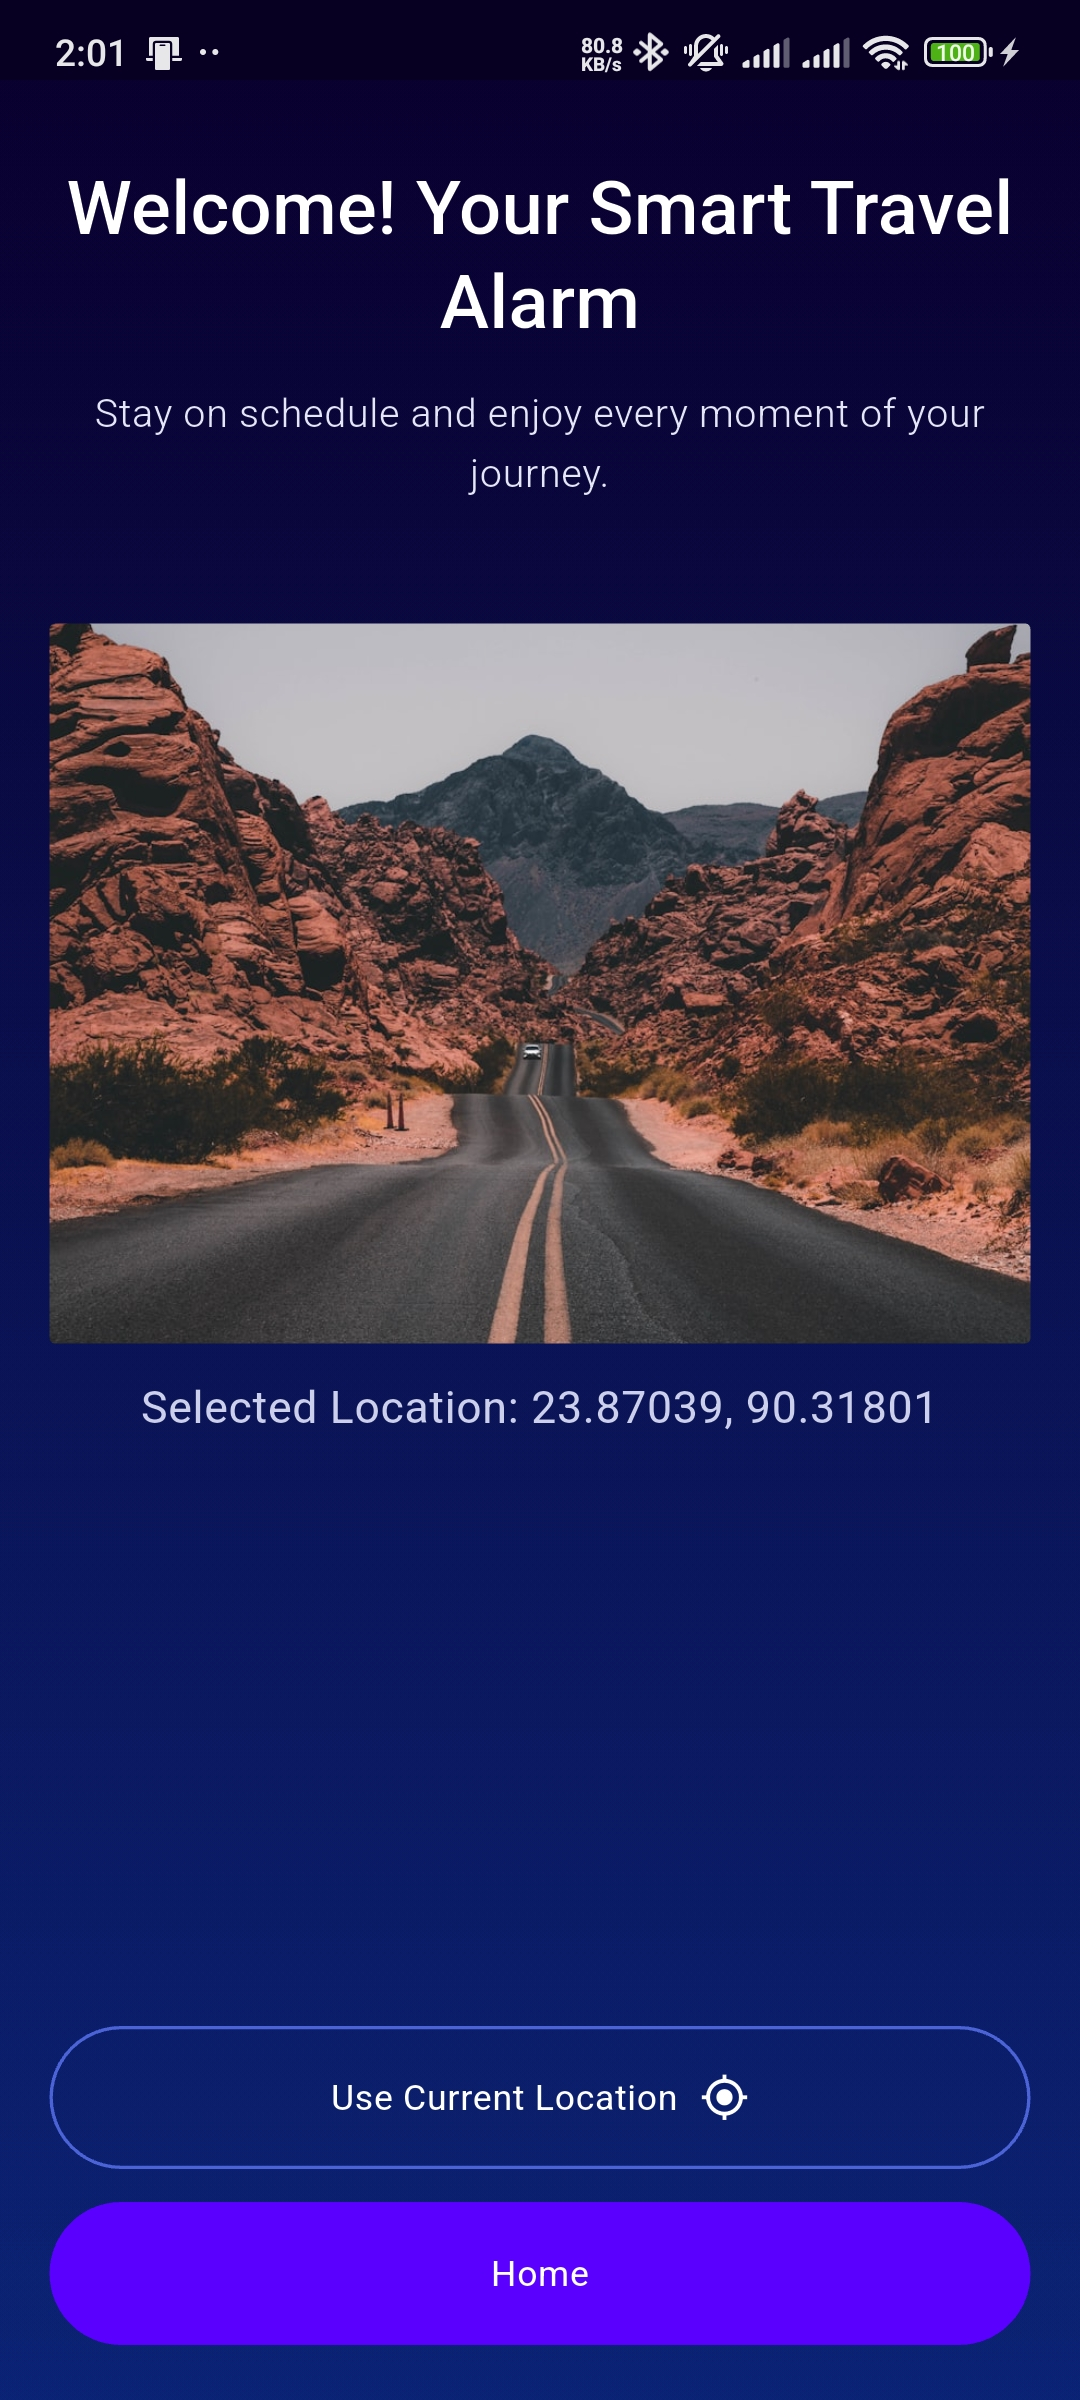
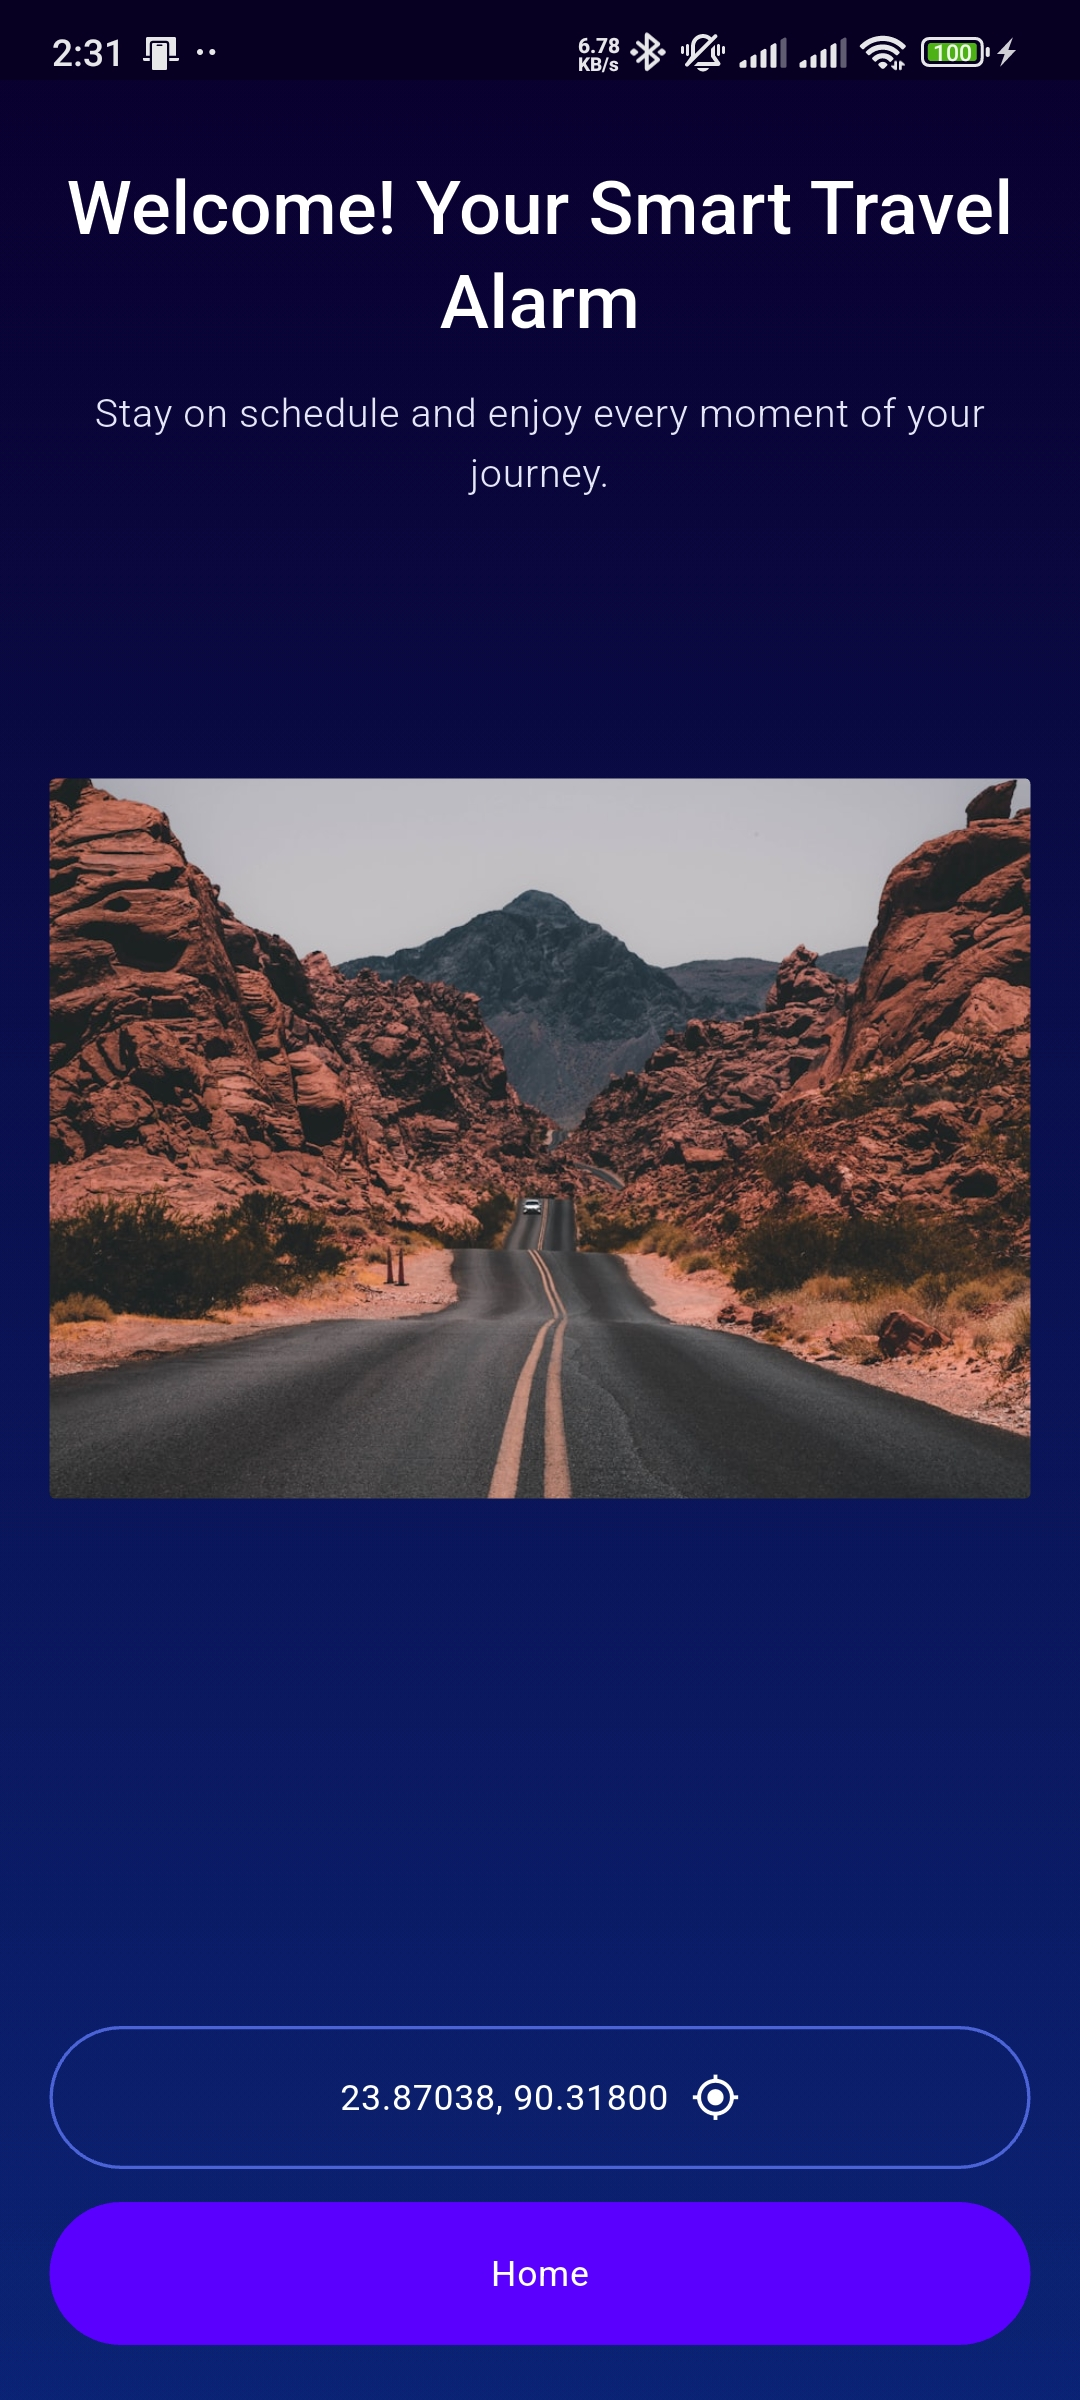
location page ui changed

diff --git a/lib/features/location/location_screen.dart b/lib/features/location/location_screen.dart
@@ -102,6 +102,9 @@ class _LocationScreenState extends State<LocationScreen> {
     final double subtitleSize = (screenSize.width * 0.045).clamp(14.0, 18.0);
     final double topImageGap = (screenSize.height * 0.05).clamp(24.0, 80.0);
     final double imageHeight = (screenSize.height * 0.30).clamp(190.0, 320.0);
+    final String locationButtonLabel = _position == null
+        ? 'Use Current Location'
+        : '${_position!.latitude.toStringAsFixed(5)}, ${_position!.longitude.toStringAsFixed(5)}';
 
     return Scaffold(
       backgroundColor: const Color(0xFF09002F),
@@ -142,7 +145,7 @@ class _LocationScreenState extends State<LocationScreen> {
                     fontWeight: FontWeight.w400,
                   ),
                 ),
-                SizedBox(height: topImageGap),
+                SizedBox(height: 100),
                 ClipRRect(
                   borderRadius: BorderRadius.circular(2),
                   child: SizedBox(
@@ -165,18 +168,6 @@ class _LocationScreenState extends State<LocationScreen> {
                     ),
                   ),
                 ),
-                if (_position != null) ...[
-                  const SizedBox(height: 12),
-                  Text(
-                    'Selected Location: ${_position!.latitude.toStringAsFixed(5)}, ${_position!.longitude.toStringAsFixed(5)}',
-                    textAlign: TextAlign.center,
-                    style: const TextStyle(
-                      color: Color(0xFFCDD0EC),
-                      fontSize: 20,
-                      fontWeight: FontWeight.w500,
-                    ),
-                  ),
-                ],
                 const Spacer(),
                 if (_errorText != null) ...[
                   Padding(
@@ -211,7 +202,7 @@ class _LocationScreenState extends State<LocationScreen> {
                 _ActionButton(
                   label: _isLoading
                       ? 'Getting Location...'
-                      : 'Use Current Location',
+                      : locationButtonLabel,
                   icon: Icons.my_location_outlined,
                   isPrimary: false,
                   onPressed: _isLoading ? null : _requestLocation,
